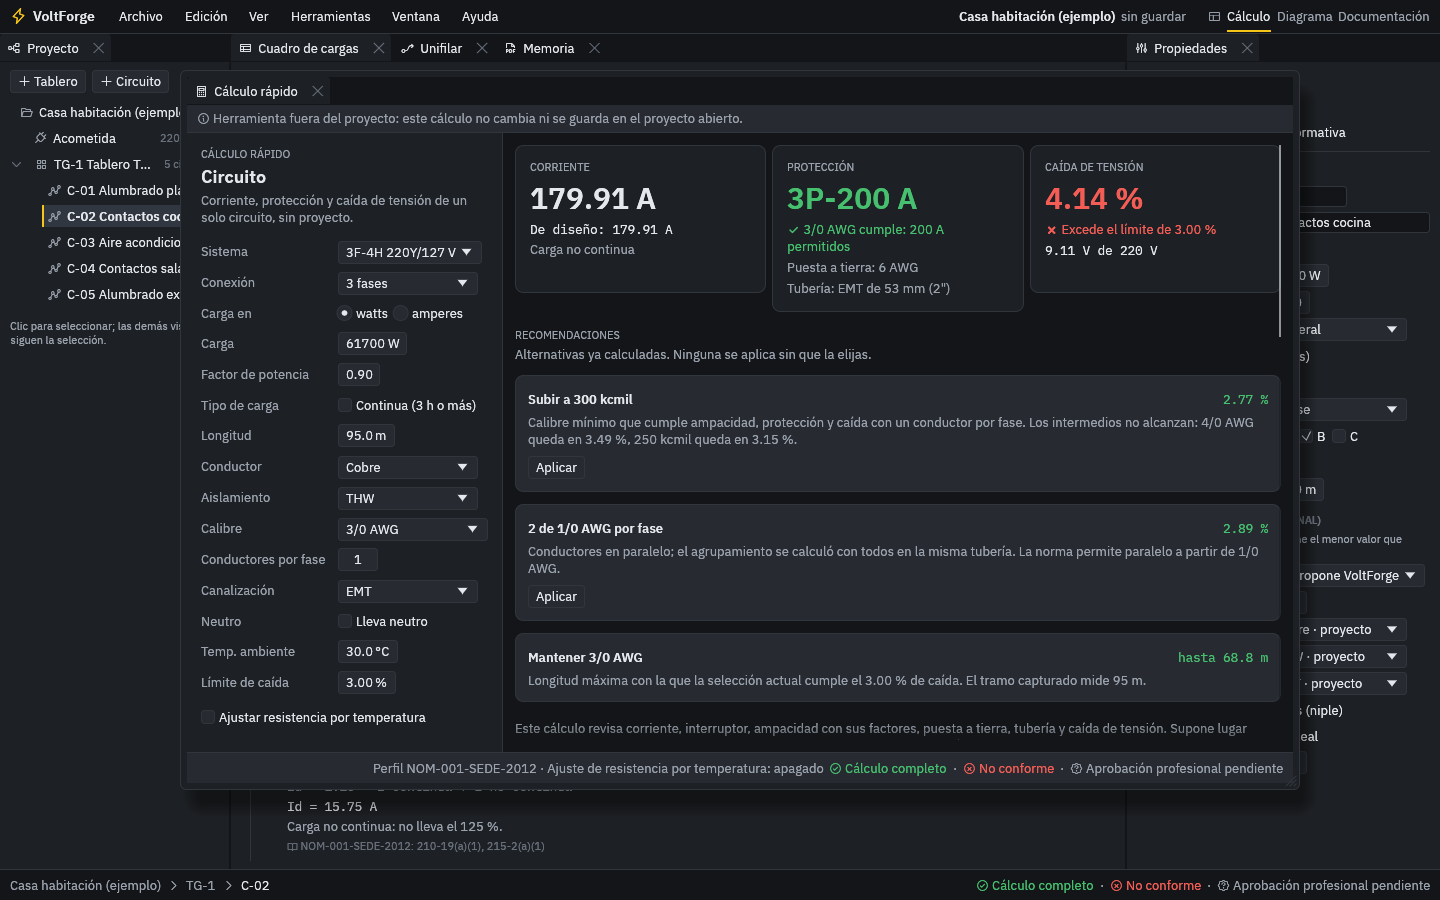
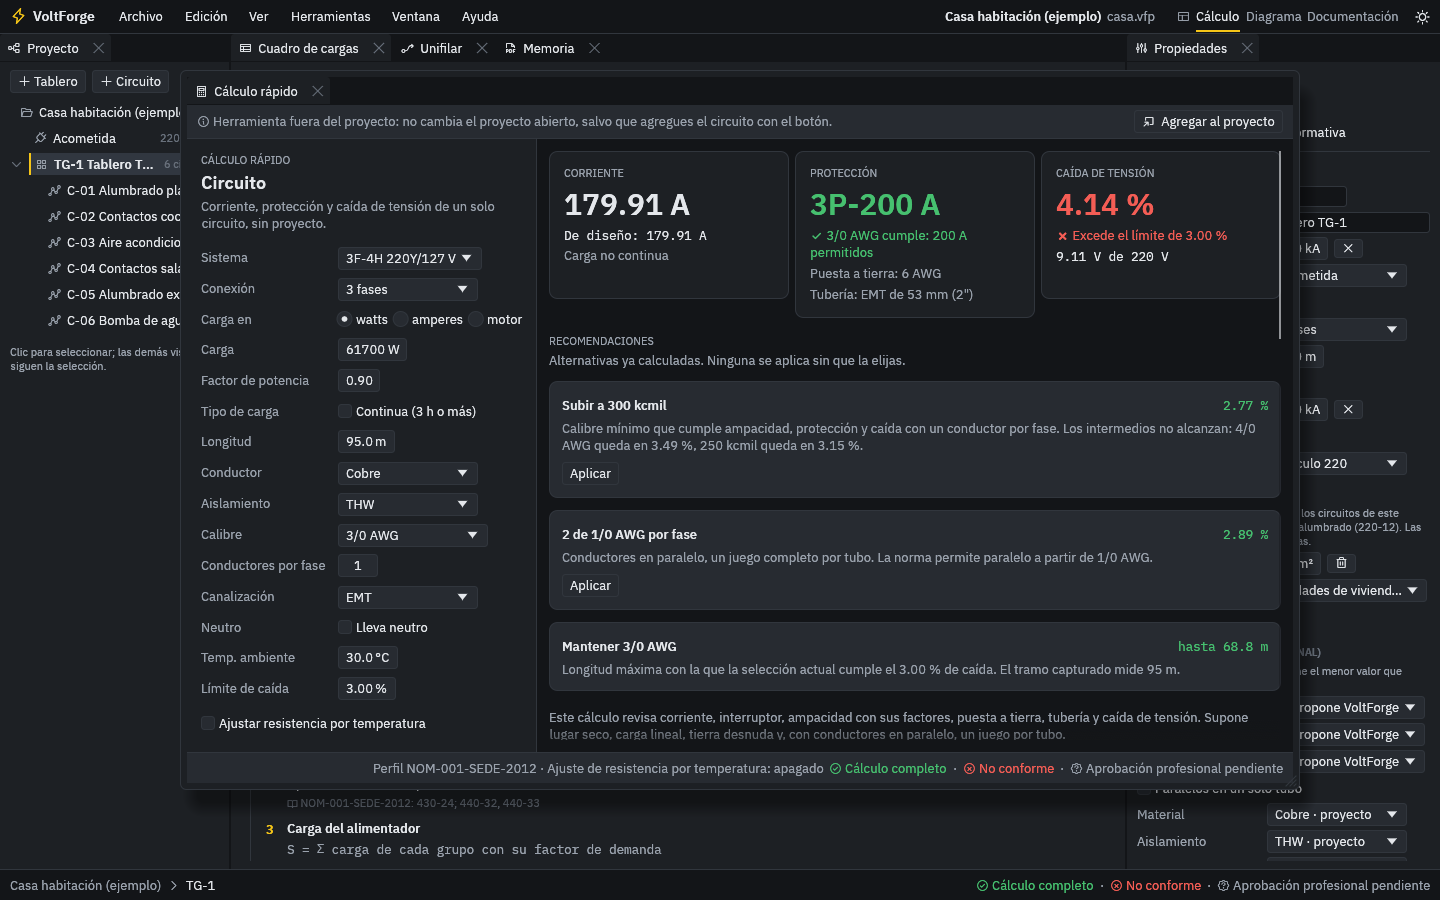
Excel: un motor nuevo exige su potencia; capturas actualizadas
Un circuito de motor importado sin «Motor hp» ya no toma 1 hp en
silencio: la fila se informa como error. Capturas del README con el
cortocircuito, la carga del artículo 220 y los datos de la obra.

Claude-Session: https://claude.ai/code/session_01JiwxERR7w82c2FvstMPqHB

diff --git a/crates/voltforge-exchange/tests/excel_cases.rs b/crates/voltforge-exchange/tests/excel_cases.rs
@@ -57,7 +57,7 @@ fn a_hand_written_sheet_is_imported_with_its_errors() {
     let mut book = Workbook::new();
     let sheet = book.add_worksheet();
     sheet.set_name(CIRCUITS_SHEET).unwrap();
-    let rows: [[&str; 6]; 5] = [
+    let rows: [[&str; 7]; 6] = [
         [
             "ID",
             "Tablero",
@@ -65,11 +65,13 @@ fn a_hand_written_sheet_is_imported_with_its_errors() {
             "Tipo de carga",
             "Conexión",
             "Fases",
+            "Motor hp",
         ],
-        ["L-1", "TA", "1500", "Alumbrado", "1F", "a"],
-        ["M-1", "TA", "", "Motor", "3F", "ABC"],
-        ["X-1", "TA", "mil", "General", "1 fase", "B"],
-        ["X-2", "TA", "100", "Calefactor", "1 fase", "B"],
+        ["L-1", "TA", "1500", "Alumbrado", "1F", "a", ""],
+        ["M-1", "TA", "", "Motor", "3F", "ABC", "7-1/2"],
+        ["X-1", "TA", "mil", "General", "1 fase", "B", ""],
+        ["X-2", "TA", "100", "Calefactor", "1 fase", "B", ""],
+        ["M-2", "TA", "", "Motor", "3F", "ABC", ""],
     ];
     for (r, row) in rows.iter().enumerate() {
         for (c, value) in row.iter().enumerate() {
@@ -80,14 +82,15 @@ fn a_hand_written_sheet_is_imported_with_its_errors() {
     let mut project = empty_like(&example::house());
     let report = import_xlsx(&mut project, &bytes).unwrap();
     assert_eq!(report.circuits_added, 2);
-    assert_eq!(report.errors.len(), 2, "{:?}", report.errors);
+    assert_eq!(report.errors.len(), 3, "{:?}", report.errors);
     assert!(report.errors[0].contains("fila 4") && report.errors[0].contains("mil"));
     assert!(report.errors[1].contains("Calefactor"));
+    assert!(report.errors[2].contains("Motor hp"));
     let panel = &project.panels[0];
     assert_eq!(panel.circuits[0].load.kind, LoadKind::Lighting);
     assert_eq!(panel.circuits[0].load.power_w, 1500.0);
     assert_eq!(panel.circuits[1].load.kind, LoadKind::Motor);
-    assert!(panel.circuits[1].load.motor.is_some());
+    assert_eq!(panel.circuits[1].load.motor.as_ref().unwrap().hp, "7-1/2");
     assert!(report.summary().contains("2 circuitos nuevos"));
 }
 

diff --git a/crates/voltforge-exchange/src/lib.rs b/crates/voltforge-exchange/src/lib.rs
@@ -730,6 +730,9 @@ fn apply_row(
     match c.load.kind {
         LoadKind::Motor => {
             let hp = sheet.get(row, "Motor hp").map(str::trim).unwrap_or("");
+            if hp.is_empty() && c.load.motor.is_none() {
+                return Err("falta la potencia del motor en la columna «Motor hp»".into());
+            }
             let plate =
                 optional_number(sheet.get(row, "Corriente de placa A"), "corriente de placa")?;
             let motor = c.load.motor.get_or_insert_with(|| MotorLoad {
